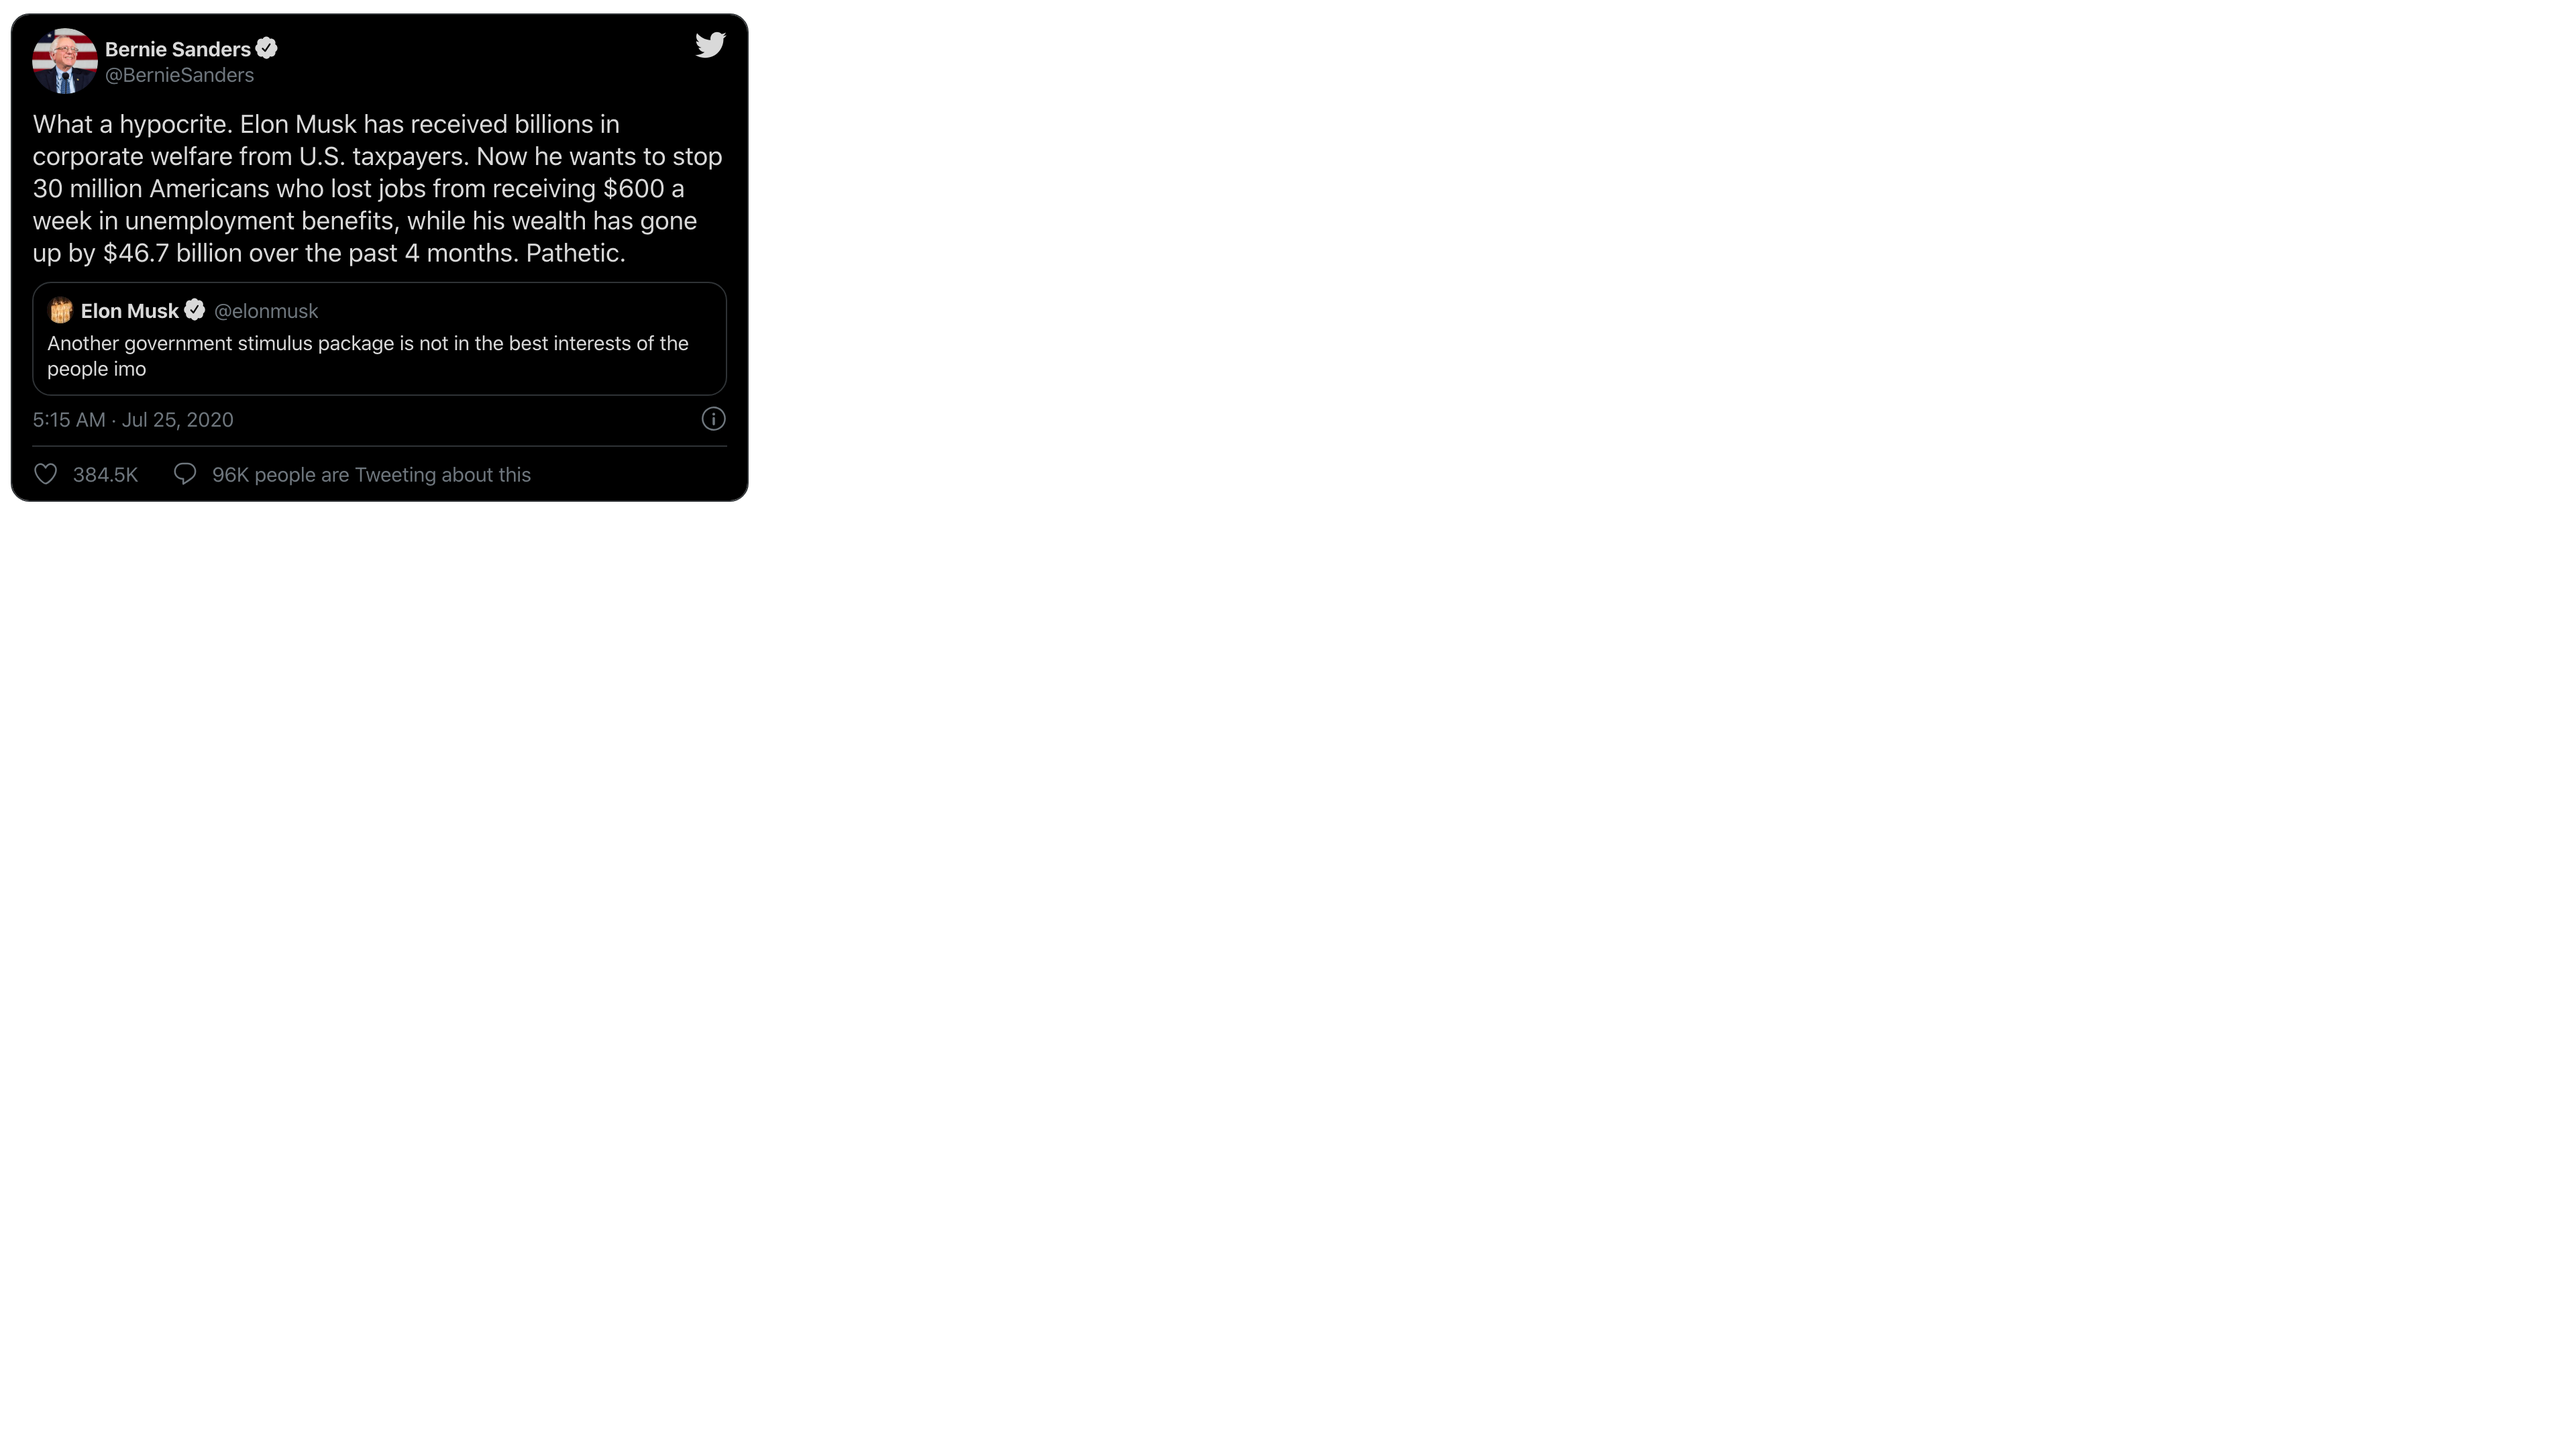
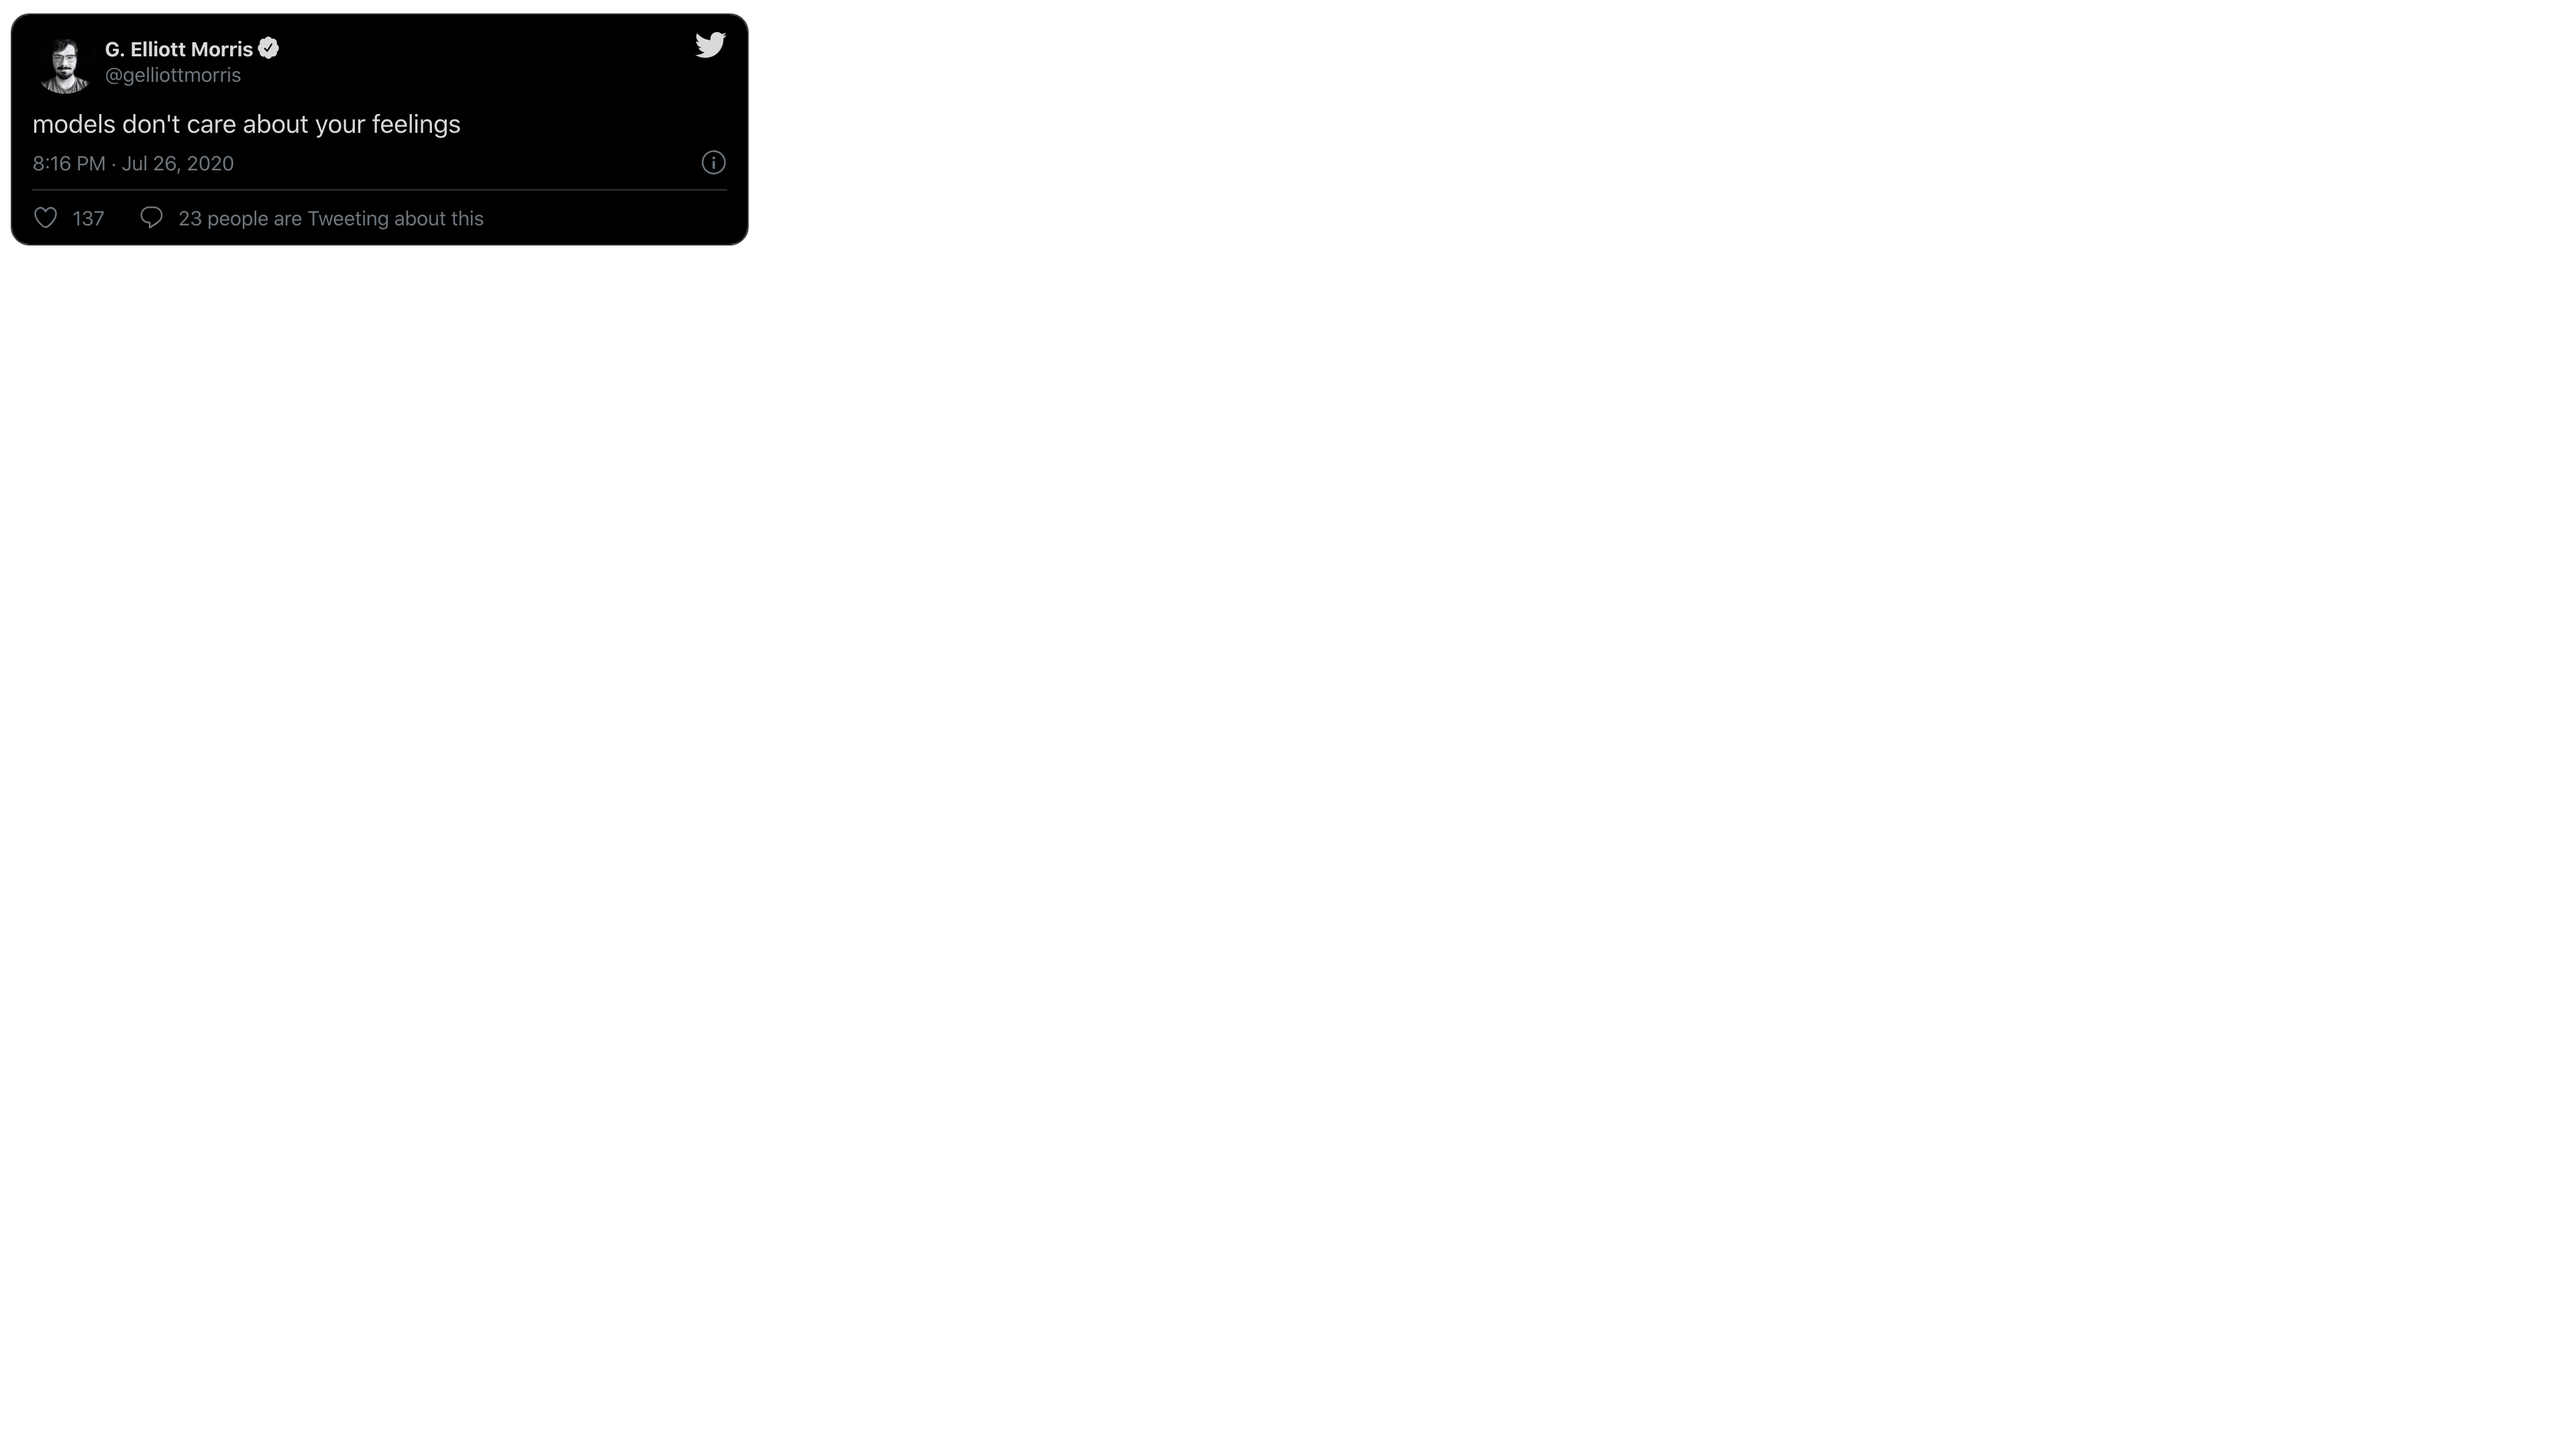
chrome drivewr

Changed region(s): [[0.0, 0.0, 0.3125, 0.3722]]

diff --git a/data/tweet.html b/data/tweet.html
@@ -1,2 +1,2 @@
-<blockquote class="twitter-tweet" data-theme="dark"><p lang="en" dir="ltr">What a hypocrite. Elon Musk has received billions in corporate welfare from U.S. taxpayers. Now he wants to stop 30 million Americans who lost jobs from receiving $600 a week in unemployment benefits, while his wealth has gone up by $46.7 billion over the past 4 months. Pathetic. <a href="https://t.co/hECaTul3ZI">https://t.co/hECaTul3ZI</a></p>&mdash; Bernie Sanders (@BernieSanders) <a href="https://twitter.com/BernieSanders/status/1286809839499464704?ref_src=twsrc%5Etfw">July 24, 2020</a></blockquote>
+<blockquote class="twitter-tweet" data-theme="dark"><p lang="en" dir="ltr">models don&#39;t care about your feelings</p>&mdash; G. Elliott Morris (@gelliottmorris) <a href="https://twitter.com/gelliottmorris/status/1287398852937515008?ref_src=twsrc%5Etfw">July 26, 2020</a></blockquote>
 <script async src="https://platform.twitter.com/widgets.js" charset="utf-8"></script>

diff --git a/tweetimg.py b/tweetimg.py
@@ -6,15 +6,16 @@ import numpy as np
 import requests
 import json
 
-# import uvloop
 
+try:
+    EXEC_PATH = os.environ.get('GOOGLE_CHROME_SHIM')
+except Exception:
+    print('Driver Not Found')
 
-# file_name="new_tweet.html"
-# file_path=os.path.dirname(os.path.realpath(file_name))+f"/{file_name}"
 
 async def asyc_screenshot(file_name):
     file_path=os.path.abspath(f"./data/{file_name}.html")
-    browser = await launch()
+    browser = await launch(headless=True,executablePath=EXEC_PATH)
     page = await browser.newPage()
     await page.setViewport({'width': 1920, 'height': 1080, 'deviceScaleFactor' :2})
     await page.goto(f"file:{file_path}",({ "waitUntil": 'networkidle0' }))
@@ -23,14 +24,6 @@ async def asyc_screenshot(file_name):
     await browser.close()
 
 
-def screenshot(file_name):
-    asyncio.get_event_loop().run_until_complete(asyc_screenshot(file_name))
-    # asyncio.run(asyc_screenshot(file_name)) 
-# uvloop.install()
-# asyncio.run(main())
-    # pass
-# call()
-
 def get_tweet(tweet_url,file_name):
     oemb_tweet_api="https://publish.twitter.com/oembed?url="
     tweet_post=oemb_tweet_api+tweet_url+"&theme=dark"
@@ -38,6 +31,7 @@ def get_tweet(tweet_url,file_name):
     html_string=json.loads(page.text)["html"]
     with open (f"./data/{file_name}.html","w") as file:
         file.write(html_string)
+ 
         
 def autocrop(file_name):
     img_path = f"./data/{file_name}.png"
